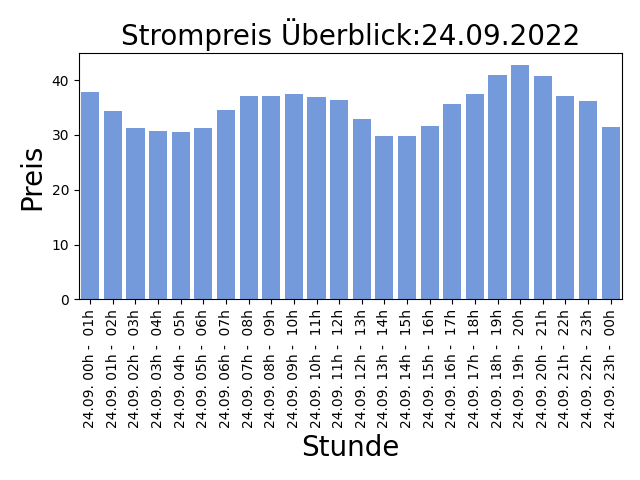
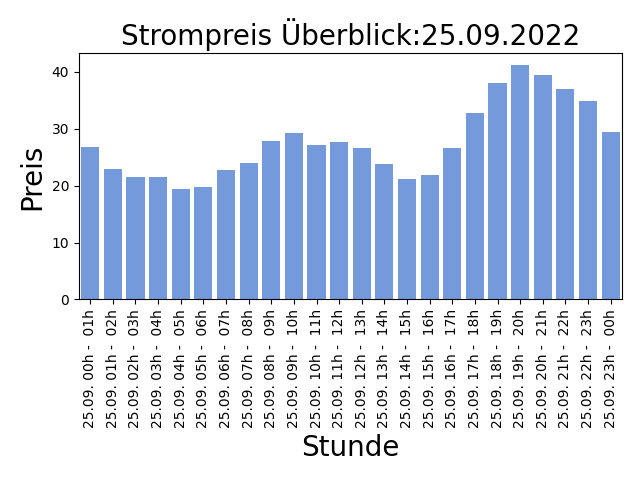
AUTOMATIC UPDATE PRICE LIST: 2022-09-24-14:30:06

diff --git a/README.md b/README.md
@@ -1,5 +1,5 @@
 
-## Strompreise für den 24.09.2022
+## Strompreise für den 25.09.2022
 
 Niedrige Preise deuten auf viel Sonnen und Windenergieerzeugung hin, ein hoher Anteil an erneuerbaren Energien bedeuted weniger CO2 Verbrauch!
 
@@ -7,31 +7,31 @@ Niedrige Preise deuten auf viel Sonnen und Windenergieerzeugung hin, ein hoher A
 
 | Stunde | Preis in Cent/kWh |
 |---|---|
-| 24.09. 00h -  01h | 37.794 | 
-| 24.09. 01h -  02h | 34.412 | 
-| 24.09. 02h -  03h | 31.202999999999996 | 
-| 24.09. 03h -  04h | 30.723000000000003 | 
-| 24.09. 04h -  05h | 30.629 | 
-| 24.09. 05h -  06h | 31.274 | 
-| 24.09. 06h -  07h | 34.519999999999996 | 
-| 24.09. 07h -  08h | 37.178 | 
-| 24.09. 08h -  09h | 37.066 | 
-| 24.09. 09h -  10h | 37.515 | 
-| 24.09. 10h -  11h | 36.993 | 
-| 24.09. 11h -  12h | 36.349000000000004 | 
-| 24.09. 12h -  13h | 33.0 | 
-| **24.09. 13h -  14h** | **29.829** | 
-| 24.09. 14h -  15h | 29.9 | 
-| 24.09. 15h -  16h | 31.711000000000002 | 
-| 24.09. 16h -  17h | 35.7 | 
-| 24.09. 17h -  18h | 37.447 | 
-| 24.09. 18h -  19h | 40.963 | 
-| 24.09. 19h -  20h | 42.775999999999996 | 
-| 24.09. 20h -  21h | 40.768 | 
-| 24.09. 21h -  22h | 37.155 | 
-| 24.09. 22h -  23h | 36.273 | 
-| 24.09. 23h -  00h | 31.497000000000003 | 
+| 25.09. 00h -  01h | 26.866000000000003 | 
+| 25.09. 01h -  02h | 23.0 | 
+| 25.09. 02h -  03h | 21.524 | 
+| 25.09. 03h -  04h | 21.516 | 
+| **25.09. 04h -  05h** | **19.44** | 
+| 25.09. 05h -  06h | 19.759999999999998 | 
+| 25.09. 06h -  07h | 22.814 | 
+| 25.09. 07h -  08h | 23.990000000000002 | 
+| 25.09. 08h -  09h | 27.874000000000002 | 
+| 25.09. 09h -  10h | 29.160000000000004 | 
+| 25.09. 10h -  11h | 27.197000000000003 | 
+| 25.09. 11h -  12h | 27.7 | 
+| 25.09. 12h -  13h | 26.648000000000003 | 
+| 25.09. 13h -  14h | 23.834 | 
+| 25.09. 14h -  15h | 21.134 | 
+| 25.09. 15h -  16h | 21.859 | 
+| 25.09. 16h -  17h | 26.619999999999997 | 
+| 25.09. 17h -  18h | 32.813 | 
+| 25.09. 18h -  19h | 38.009 | 
+| 25.09. 19h -  20h | 41.202999999999996 | 
+| 25.09. 20h -  21h | 39.392 | 
+| 25.09. 21h -  22h | 36.997 | 
+| 25.09. 22h -  23h | 34.817 | 
+| 25.09. 23h -  00h | 29.443 | 
 
 Preise der EPEX Spot ® Strombörse (neue Preise werden täglich um 14:00 veröffentlicht für den kompletten nächsten Tag).
 
-letzte Aktualisierung:23.09.2022 14:30
+letzte Aktualisierung:24.09.2022 14:30
